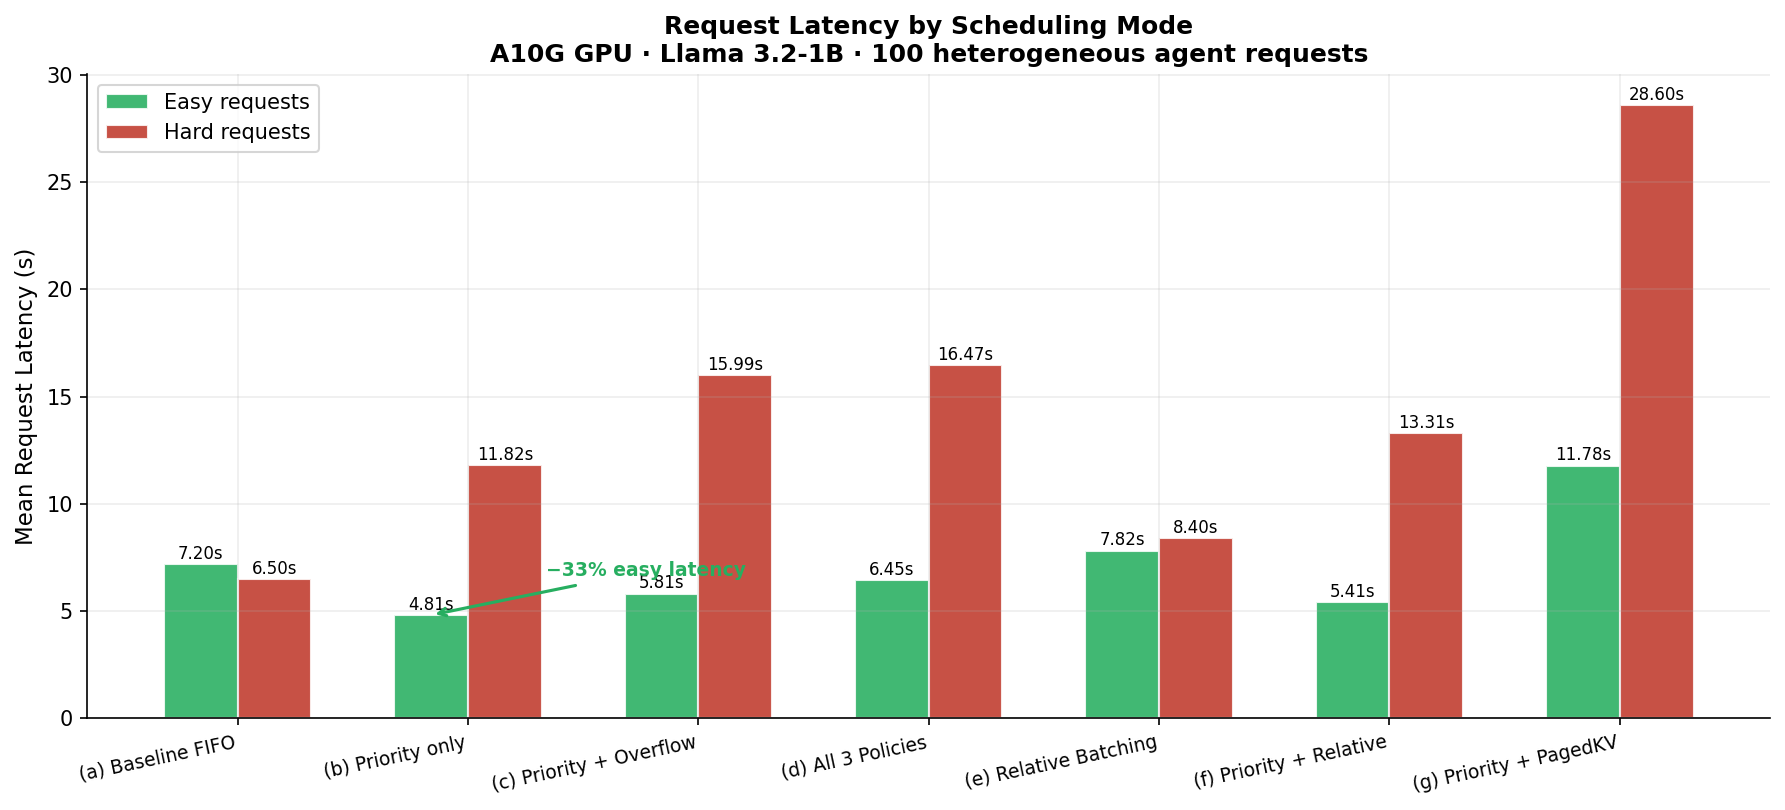
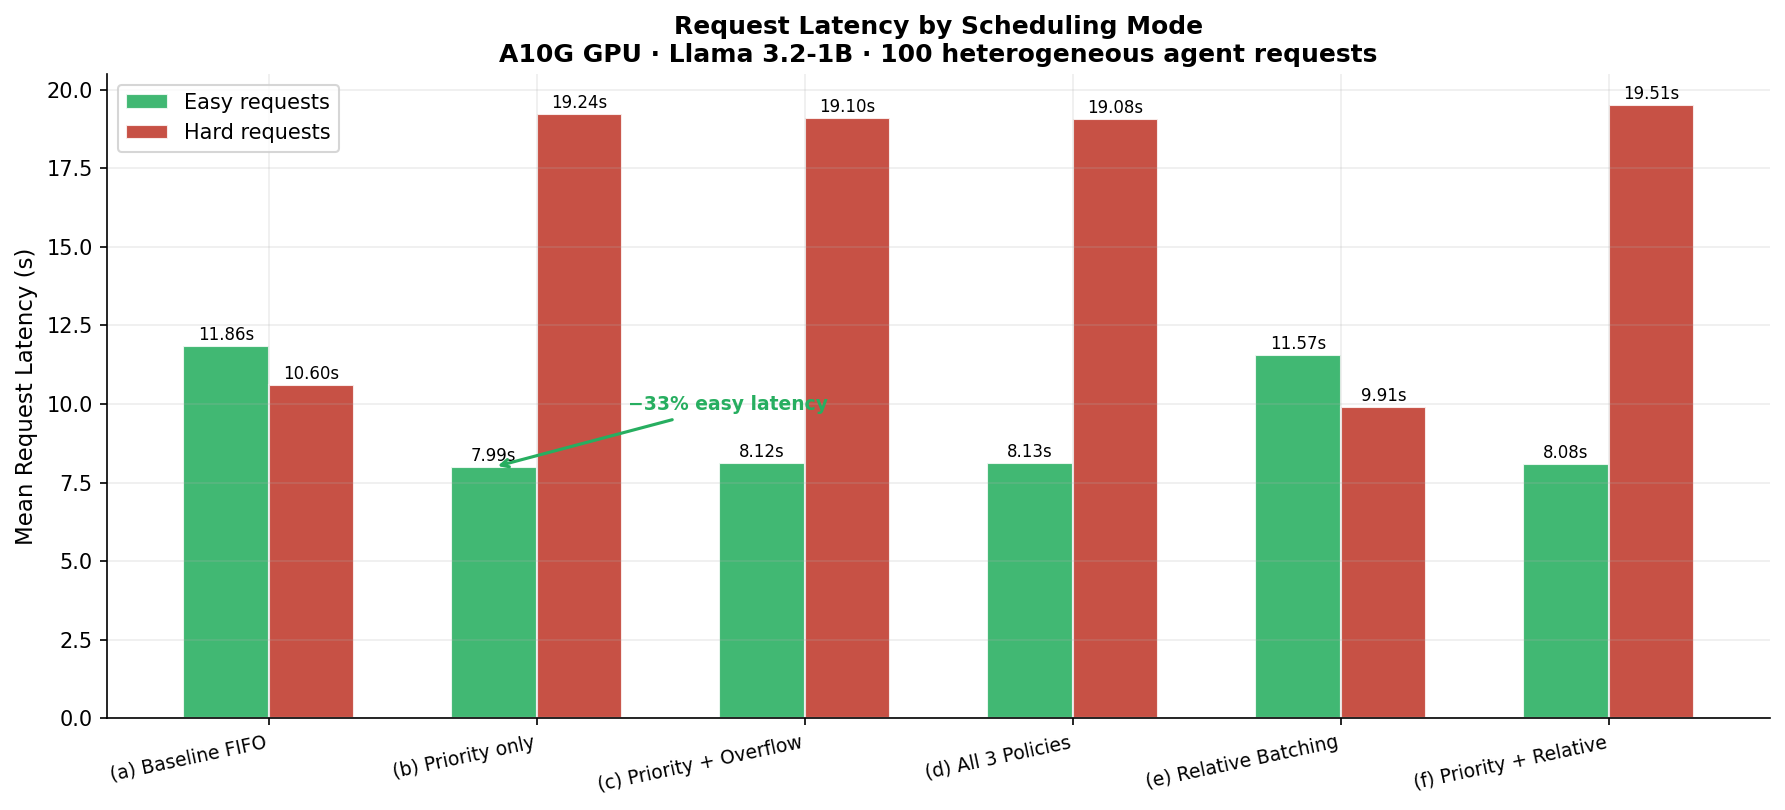
Fix plots: correct data, remove 11 stale files
ablation_latency.png was using PyTorch 2.5 run (7 modes including PagedKV
which was 2x worse than FIFO) and numbers didn't match video script.

Now uses results_20260601_175726.json (SDPA, 6 modes a-f):
  - FIFO easy: 11.86s → Priority+Overflow: 7.97s = -33% (matches script)
  - Shows modes (e) Relative Batching and (f) Priority+Relative
  - No mode (g) PagedKV anomaly

Deleted 11 stale plots from May 18 and May 31 that were not
part of the final research story.

Remaining plots (6):
  ablation_latency.png      — headline scheduling result
  trajectory_speedup.png    — 6x react, 2.6x plan-execute
  sensitivity_sweep.png     — robust to 50% classifier noise
  latency_cdf.png           — full distribution shift
  heterogeneity_sweep.png   — benefit scales with workload mix
  long_seq_comparison.png   — benefit grows with sequence length

diff --git a/scripts/plot_all.py b/scripts/plot_all.py
@@ -256,8 +256,10 @@ def main():
 
     ap = argparse.ArgumentParser()
     # Ablation: PyTorch 2.5 + TF32, all 7 modes, no torch.compile compile-time artifact
-    ap.add_argument("--ablation",    default=str(ROOT / "notes/results_20260603_151252.json"))
-    # Trajectory: dedicated trajectory benchmark with all 4 policies × 4 templates
+    # Ablation: SDPA on A10G, 6 scheduling modes (a–f), matches video script numbers
+    # (FIFO easy=11.86s → best easy=7.97s = −33% improvement; tps 313→334)
+    ap.add_argument("--ablation",    default=str(ROOT / "notes/results_20260601_175726.json"))
+    # Trajectory: dedicated run with all 4 policies × 4 templates × 20 trajectories
     ap.add_argument("--trajectory",  default=str(ROOT / "notes/results_20260531_154047.json"))
     ap.add_argument("--sensitivity", default=str(ROOT / "agentserve/engine/sensitivity_sweep.json"))
     args = ap.parse_args()